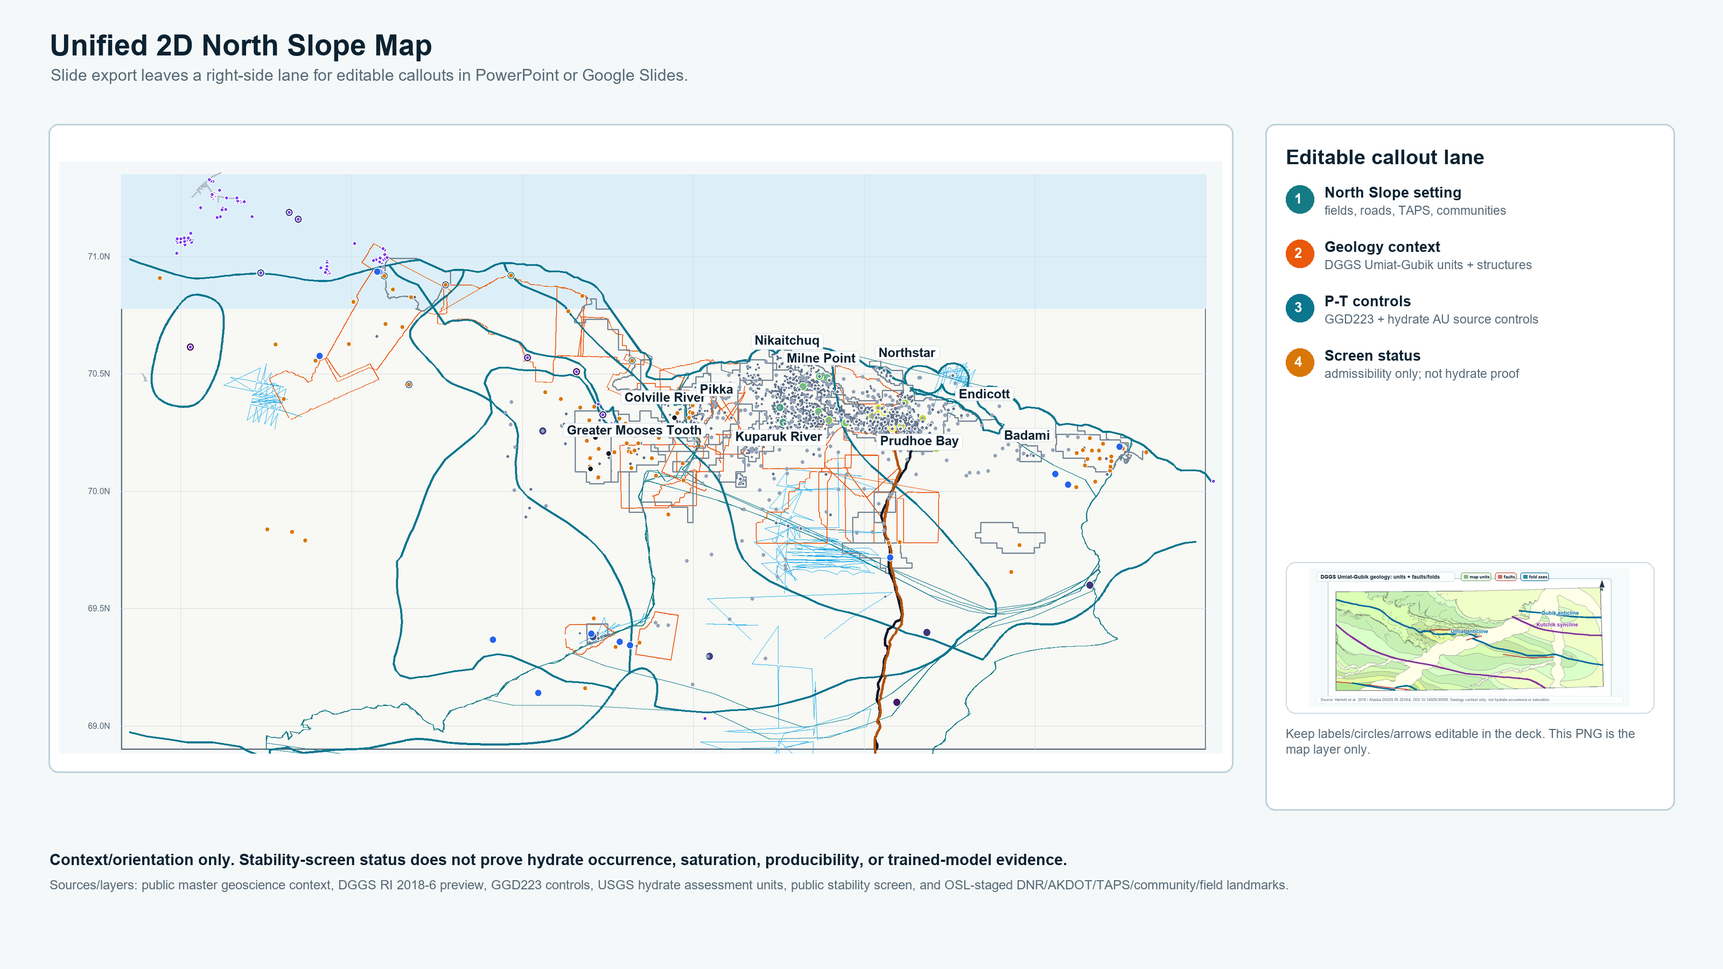
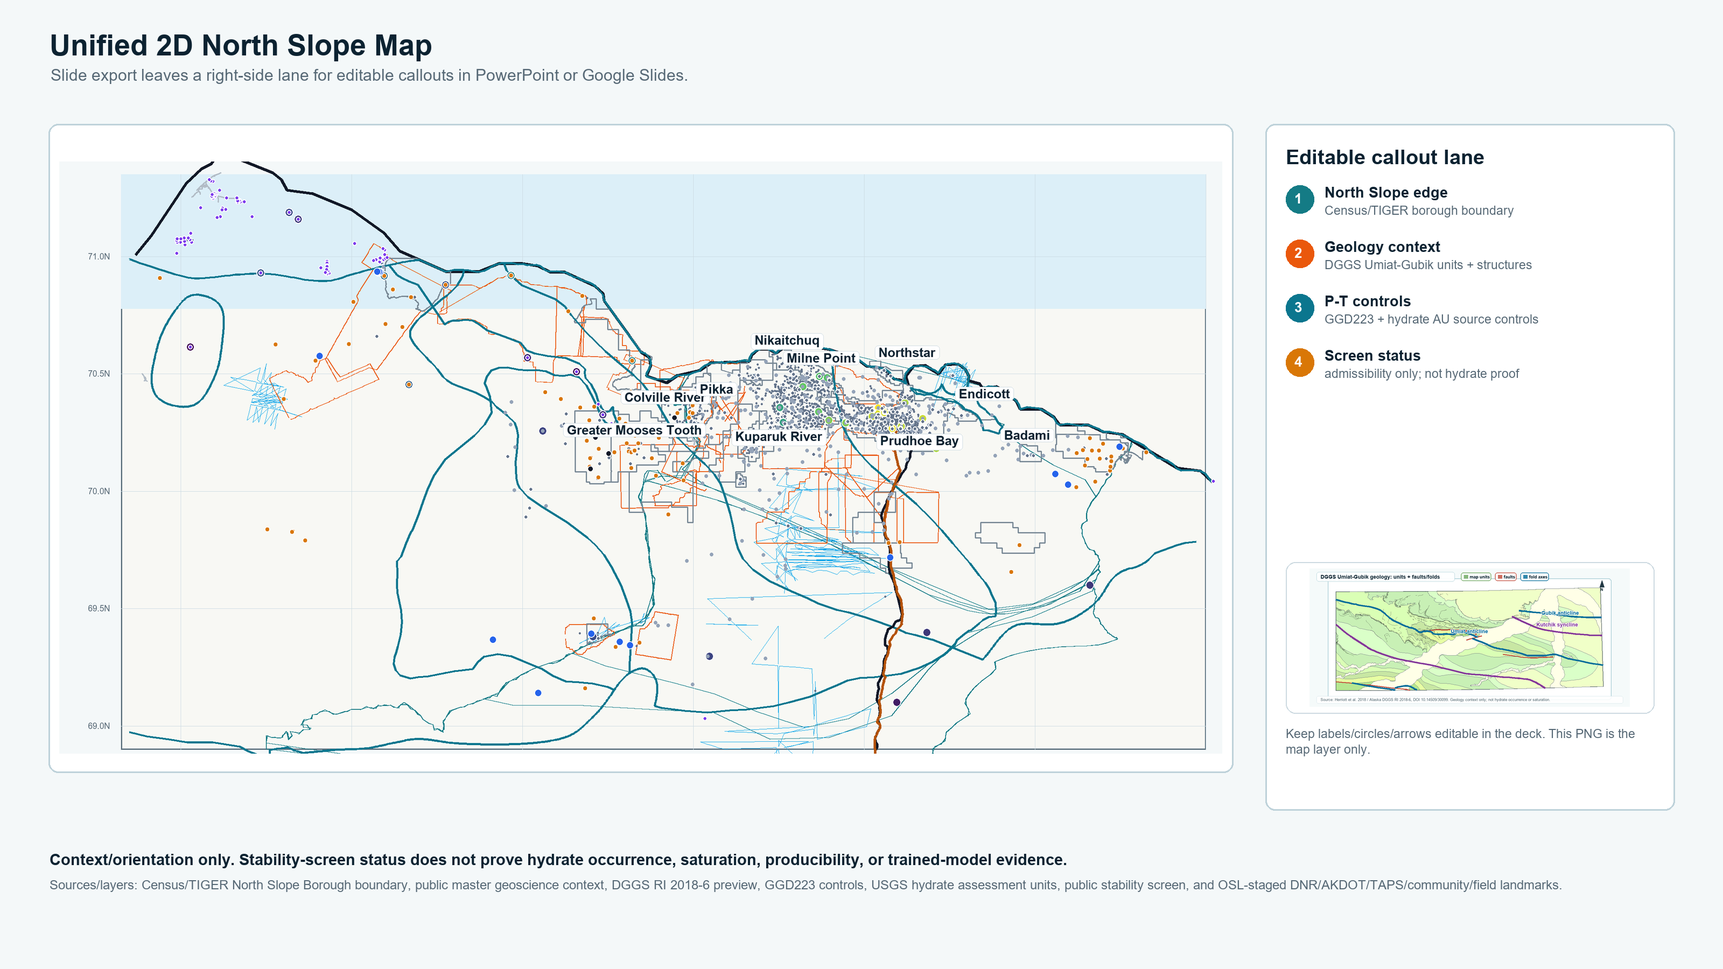
Add North Slope Borough boundary to unified map

Changed region(s): [[0.0938, 0.9022, 0.9062, 0.9333], [0.8125, 0.1867, 0.875, 0.2178]]

diff --git a/docs/project_blueprints/build_unified_north_slope_context_map.py b/docs/project_blueprints/build_unified_north_slope_context_map.py
@@ -19,6 +19,7 @@ ASSET_DIR = (
 PNG_PATH = ASSET_DIR / "unified_north_slope_well_stability_context_map_2026_06_18.png"
 SLIDE_PNG_PATH = ASSET_DIR / "unified_north_slope_slide_export_callout_space_2026_06_18.png"
 PUBLIC_STABILITY = ROOT / "data" / "public_stability_products"
+PUBLIC_GIS_PRODUCTS = ROOT / "data" / "public_gis_products"
 PUBLIC_SNAPSHOT = (
     ROOT
     / "data"
@@ -30,6 +31,7 @@ LANDMARK_DIR = ROOT / "data" / "source_library" / "basemap_landmarks_2026_06_18"
 SCREEN_CSV = PUBLIC_STABILITY / "stability_screen_2026-06-14_methane_5ppt_v1.csv"
 GGD223_CSV = PUBLIC_SNAPSHOT / "ggd223_permafrost_controls.csv"
 AU_GEOJSON = PUBLIC_SNAPSHOT / "GasHydrateAUs.geojson"
+BOROUGH_BOUNDARY_GEOJSON = PUBLIC_GIS_PRODUCTS / "north_slope_borough_boundary_tiger2025.geojson"
 MASTER_2D = ROOT / "03_data_final" / "master_layers" / "north_slope_master_2d_layers.parquet"
 DGGS_PREVIEW = (
     ROOT
@@ -392,12 +394,13 @@ def draw_side_panel(base: Image.Image) -> None:
     draw_text(draw, (x1 + 34, y1 + 34), "Integrated source layers", 38, NAVY, True, width=x2 - x1 - 68)
     y = y1 + 92
     layers = [
+        ("Regional Boundary", "Census/TIGER North Slope Borough edge"),
         ("Geoscience Orientation", "study boundary, public wells, 2D/3D seismic"),
         ("DGGS RI 2018-6", "Umiat-Gubik units, contacts/faults, folds"),
         ("Stability controls", "GGD223 pf_depth_m + USGS hydrate AUs"),
         ("OSL landmarks", "DNR units, AKDOT roads, TAPS, communities"),
     ]
-    colors = [ASSESSMENT_CONTEXT, SEISMIC_3D, TEAL, PIPE]
+    colors = [BLACK, ASSESSMENT_CONTEXT, SEISMIC_3D, TEAL, PIPE]
     for (header, body), color in zip(layers, colors):
         draw.rounded_rectangle((x1 + 34, y, x1 + 64, y + 30), radius=6, fill=color + (255,))
         draw_text(draw, (x1 + 82, y - 2), header, 26, NAVY, True, width=x2 - x1 - 120)
@@ -444,6 +447,7 @@ def field_label_frame(screen: pd.DataFrame) -> pd.DataFrame:
 def draw_legend(draw: ImageDraw.ImageDraw, ggd_min: int, ggd_max: int) -> None:
     x, y = 160, 210
     line_items = [
+        ("North Slope Borough boundary", BLACK, 6),
         ("Public assessment context", ASSESSMENT_CONTEXT, 4),
         ("2D seismic coverage", SEISMIC, 3),
         ("3D seismic footprints", SEISMIC_3D, 3),
@@ -515,6 +519,7 @@ def draw_map() -> Path:
     local_roads = [feature for feature in roads_all if feature not in key_roads]
     taps = load_geojson(LANDMARK_DIR / "alaska_dnr_trans_alaska_pipeline.geojson")
     aus = load_geojson(AU_GEOJSON)
+    borough_boundary = load_geojson(BOROUGH_BOUNDARY_GEOJSON)
     gnis = load_geojson(LANDMARK_DIR / "usgs_gnis_places_north_slope_clip.geojson")
     master_context = load_master_2d_context()
 
@@ -538,6 +543,7 @@ def draw_map() -> Path:
     draw_frame_lines(draw, master_context, "seismic_2d", SEISMIC, 1, 260, 130)
     draw_frame_lines(draw, master_context, "seismic_3d_inventory", SEISMIC_3D, 2, 120, 180)
     draw_frame_lines(draw, master_context, "extent", BLACK, 4, 8, 20)
+    draw_geojson_lines(draw, borough_boundary, BLACK, 7, max_points=2600)
     draw_public_well_reference_points(draw, master_context)
 
     draw_geojson_lines(draw, dnr_units, GRAY, 3, max_points=800)
@@ -598,7 +604,7 @@ def draw_map() -> Path:
     draw_text(
         draw,
         (132, 122),
-        "Geoscience orientation, DGGS Umiat-Gubik preview, GGD223 controls, USGS hydrate AUs, screen status, DNR units, roads, TAPS, and field labels.",
+        "Census/TIGER North Slope Borough boundary, geoscience orientation, DGGS Umiat-Gubik preview, GGD223 controls, USGS hydrate AUs, screen status, DNR units, roads, TAPS, and field labels.",
         29,
         MUTED,
     )
@@ -616,7 +622,7 @@ def draw_map() -> Path:
     draw_text(
         draw,
         (130, 1975),
-        "GitHub-safe layers: public master geoscience context, committed stability screen, USGS AU snapshot, GGD223 public snapshot, DGGS preview PNG, and this derived PNG. OSL/Drive-only raw layers: full DNR/AKDOT/TAPS/Census/GNIS/DGGS packages and any approved well-log/core/runtime data.",
+        "GitHub-safe layers: Census/TIGER North Slope Borough boundary, public master geoscience context, committed stability screen, USGS AU snapshot, GGD223 public snapshot, DGGS preview PNG, and this derived PNG. OSL/Drive-only raw layers: full DNR/AKDOT/TAPS/Census/GNIS/DGGS packages and any approved well-log/core/runtime data.",
         24,
         MUTED,
         width=3450,
@@ -650,7 +656,7 @@ def draw_slide_callout_export(full_map: Image.Image) -> Path:
     draw_text(draw, (2388, 270), "Editable callout lane", 38, NAVY, True, width=650)
     y = 344
     callouts = [
-        ("1", "North Slope setting", "fields, roads, TAPS, communities"),
+        ("1", "North Slope edge", "Census/TIGER borough boundary"),
         ("2", "Geology context", "DGGS Umiat-Gubik units + structures"),
         ("3", "P-T controls", "GGD223 + hydrate AU source controls"),
         ("4", "Screen status", "admissibility only; not hydrate proof"),
@@ -683,7 +689,7 @@ def draw_slide_callout_export(full_map: Image.Image) -> Path:
     draw_text(
         draw,
         (92, 1630),
-        "Sources/layers: public master geoscience context, DGGS RI 2018-6 preview, GGD223 controls, USGS hydrate assessment units, public stability screen, and OSL-staged DNR/AKDOT/TAPS/community/field landmarks.",
+        "Sources/layers: Census/TIGER North Slope Borough boundary, public master geoscience context, DGGS RI 2018-6 preview, GGD223 controls, USGS hydrate assessment units, public stability screen, and OSL-staged DNR/AKDOT/TAPS/community/field landmarks.",
         24,
         MUTED,
         width=3000,

diff --git a/dashboard/app.py b/dashboard/app.py
@@ -173,6 +173,10 @@ UNIFIED_CONTEXT_MAP_SLIDE_EXPORT = (
     WEBSITE_WELL_MAP_ASSET_DIR
     / "unified_north_slope_slide_export_callout_space_2026_06_18.png"
 )
+PUBLIC_GIS_PRODUCTS_DIR = PROJECT_ROOT / "data" / "public_gis_products"
+NORTH_SLOPE_BOROUGH_BOUNDARY = (
+    PUBLIC_GIS_PRODUCTS_DIR / "north_slope_borough_boundary_tiger2025.geojson"
+)
 SLIDE02_SOURCE_BUNDLE_DIR = PROJECT_ROOT / "docs" / "evidence" / "slide02_source_bundle_2026_06_17"
 DGGS_UMIAT_GUBIK_GEOLOGY_PREVIEW = (
     SLIDE02_SOURCE_BUNDLE_DIR / "slide02_selected_11_dggs_umiat_gubik_geology_layer_slide_map.png"
@@ -2080,9 +2084,10 @@ def render_regional_atlas() -> None:
     st.title("Unified 2D North Slope Map For Slides 2 And 7")
     st.write(
         "One public-safe map section combines the Geoscience Orientation layers, "
-        "DGGS Umiat-Gubik geology preview, GGD223 permafrost controls, USGS gas "
-        "hydrate assessment units, stability-screen status points, and OSL "
-        "desktop GIS landmarks for North Slope orientation."
+        "the Census/TIGER North Slope Borough boundary, DGGS Umiat-Gubik geology "
+        "preview, GGD223 permafrost controls, USGS gas hydrate assessment units, "
+        "stability-screen status points, and OSL desktop GIS landmarks for North "
+        "Slope orientation."
     )
     cols = st.columns(3)
     screen = cached_stability_screen(str(PROJECT_ROOT))
@@ -2704,6 +2709,7 @@ def load_basemap_landmark_layers(source_dir: Path) -> dict[str, object]:
     local_roads = [feature for feature in roads if feature not in key_roads]
     return {
         "source_dir": str(source_dir),
+        "borough_boundary": load_geojson_features(NORTH_SLOPE_BOROUGH_BOUNDARY),
         "units": load_geojson_features(source_dir / BASEMAP_LANDMARK_FILES["units"]),
         "local_roads": local_roads,
         "key_roads": key_roads,
@@ -2758,6 +2764,16 @@ def add_north_slope_basemap_line_layers(
     landmarks: dict[str, object],
     showlegend: bool = False,
 ) -> None:
+    add_geojson_line_trace(
+        figure,
+        landmarks.get("borough_boundary", []),
+        "North Slope Borough boundary",
+        "#0f172a",
+        3.2,
+        0.88,
+        max_points_per_path=2200,
+        showlegend=showlegend,
+    )
     add_geojson_line_trace(
         figure,
         landmarks.get("units", []),
@@ -3025,6 +3041,14 @@ def unified_context_map_layer_inventory_frame(
     dggs_status = "available as public-safe preview" if dggs_path.exists() else "missing preview"
     rows = [
         {
+            "layer_group": "Regional Boundary",
+            "layer": "North Slope Borough boundary",
+            "source": project_relative_or_absolute(NORTH_SLOPE_BOROUGH_BOUNDARY),
+            "shown_as": "bold map outline",
+            "slide_use": "Slide 2 and Slide 7 geographic edge/context",
+            "guardrail": "administrative/geographic context only; not hydrate evidence",
+        },
+        {
             "layer_group": "Geoscience Orientation",
             "layer": "study boundary, public wells, 2D seismic, 3D seismic, public assessment-unit context",
             "source": "03_data_final/master_layers/north_slope_master_2d_layers.parquet",
@@ -3071,11 +3095,12 @@ def unified_context_map_layer_inventory_frame(
 def unified_context_map_source_caveat_caption(landmark_source_dir: Path) -> str:
     return (
         "Unified public-safe map section: Geoscience Orientation master layers, "
-        "DGGS RI 2018-6 Umiat-Gubik public geology preview, GGD223 controls, "
-        "USGS gas hydrate assessment units, stability-screen status points, "
-        "and OSL-staged DNR/AKDOT/TAPS/community/field landmarks. Context and "
-        "stability-admissibility only; these layers do not prove hydrate "
-        "occurrence, saturation, producibility, or trained-model results. "
+        "Census/TIGER North Slope Borough boundary, DGGS RI 2018-6 Umiat-Gubik "
+        "public geology preview, GGD223 controls, USGS gas hydrate assessment "
+        "units, stability-screen status points, and OSL-staged "
+        "DNR/AKDOT/TAPS/community/field landmarks. Context and stability-"
+        "admissibility only; these layers do not prove hydrate occurrence, "
+        "saturation, producibility, or trained-model results. "
         f"OSL landmark source: `{project_relative_or_absolute(landmark_source_dir)}`."
     )
 
@@ -6658,7 +6683,7 @@ def render_presentation_exports() -> None:
         (
             "Unified North Slope Map",
             UNIFIED_CONTEXT_MAP_EXPORT,
-            "Large unified public geoscience, DGGS-preview, stability-status, GGD223, USGS AU, DNR unit, road, TAPS, and field-label context map",
+            "Large unified public Census/TIGER borough boundary, geoscience, DGGS-preview, stability-status, GGD223, USGS AU, DNR unit, road, TAPS, and field-label context map",
             "unified_north_slope_map",
         ),
         (

diff --git a/01_pipeline/build_public_north_slope_borough_boundary.py b/01_pipeline/build_public_north_slope_borough_boundary.py
@@ -1,0 +1,61 @@
+from __future__ import annotations
+
+from pathlib import Path
+import tempfile
+import urllib.request
+
+import geopandas as gpd
+
+
+PROJECT_ROOT = Path(__file__).resolve().parents[1]
+OUTPUT_DIR = PROJECT_ROOT / "data" / "public_gis_products"
+OUTPUT_GEOJSON = OUTPUT_DIR / "north_slope_borough_boundary_tiger2025.geojson"
+
+TIGER_2025_COUNTY_URL = (
+    "https://www2.census.gov/geo/tiger/TIGER2025/COUNTY/tl_2025_us_county.zip"
+)
+
+
+def build_boundary(output_path: Path = OUTPUT_GEOJSON) -> Path:
+    output_path.parent.mkdir(parents=True, exist_ok=True)
+    with tempfile.TemporaryDirectory(prefix="north_slope_tiger_county_") as tmp_dir:
+        zip_path = Path(tmp_dir) / "tl_2025_us_county.zip"
+        urllib.request.urlretrieve(TIGER_2025_COUNTY_URL, zip_path)
+        counties = gpd.read_file(f"zip://{zip_path.resolve()}")
+
+    boundary = counties[
+        counties["STATEFP"].astype(str).eq("02")
+        & counties["NAME"].astype(str).str.casefold().eq("north slope")
+    ].copy()
+    if boundary.empty:
+        raise RuntimeError("North Slope Borough boundary not found in TIGER county layer.")
+
+    if boundary.crs is not None and boundary.crs.to_epsg() != 4326:
+        boundary = boundary.to_crs("EPSG:4326")
+    boundary["geometry"] = boundary.geometry.simplify(0.01, preserve_topology=True)
+    boundary = boundary[
+        [
+            "STATEFP",
+            "COUNTYFP",
+            "GEOID",
+            "NAME",
+            "NAMELSAD",
+            "LSAD",
+            "ALAND",
+            "AWATER",
+            "INTPTLAT",
+            "INTPTLON",
+            "geometry",
+        ]
+    ].copy()
+    boundary["source_url"] = TIGER_2025_COUNTY_URL
+    boundary["source_note"] = (
+        "U.S. Census Bureau TIGER/Line 2025 county boundary; filtered to "
+        "North Slope Borough, Alaska, and simplified for public website maps."
+    )
+    boundary.to_file(output_path, driver="GeoJSON")
+    return output_path
+
+
+if __name__ == "__main__":
+    print(build_boundary())

diff --git a/tests/test_stability_screen_diagnostics.py b/tests/test_stability_screen_diagnostics.py
@@ -327,6 +327,7 @@ def test_unified_context_map_combines_status_source_and_landmark_layers(
     )
 
     trace_names = {trace.name for trace in figure.data}
+    assert "North Slope Borough boundary" in trace_names
     assert "Public assessment-unit context" in trace_names
     assert "2D seismic coverage" in trace_names
     assert "3D seismic footprints" in trace_names
@@ -350,6 +351,7 @@ def test_unified_context_map_combines_status_source_and_landmark_layers(
     assert pf_trace.marker.colorbar.title.text == "pf_depth_m"
 
     inventory = unified_context_map_layer_inventory_frame(Path("missing_dggs_preview.png"))
+    assert "Regional Boundary" in set(inventory["layer_group"])
     assert "DGGS RI 2018-6" in set(inventory["layer_group"])
     assert "Geoscience Orientation" in set(inventory["layer_group"])
     assert "missing preview" in set(inventory["shown_as"])

diff --git a/docs/CURRENT_ARTIFACT_INDEX.md b/docs/CURRENT_ARTIFACT_INDEX.md
@@ -18,7 +18,7 @@ are limited to `active`, `superseded`, `reference`, and `needs review`.
 | V5.5 Slide 2 source update deck | `docs/project_blueprints/V5_5_SLIDE2_SOURCE_UPDATE_North_Slope_Gas_Hydrate_ML_Workflow_Slides_2026-06-17.pptx` | Active nine-slide mentor deck update | active | Prefer builder edits | Built from the current V5.5 deck; only Slide 2 was rebuilt with selected USGS/DOE source-backed stability visuals, the DGGS RI 2018-6 Umiat-Gubik geology-layer preview, methane/Structure I baseline language, and the stability-not-proof guardrail. |
 | V5.5 Slide 2 source update companion | `docs/project_blueprints/V5_5_SLIDE2_SOURCE_UPDATE_North_Slope_Gas_Hydrate_ML_Workflow_Companion_2026-06-17.docx` | Active mentor-facing Word companion for V5.5 | active | Prefer builder edits | Explains the rebuilt Slide 2 visual choices, source links, hydrate structure types, methane baseline, DOE prototype guardrails, stability-as-context overlay, and visual provenance. |
 | V5.5 Slide 2 source update generated assets | `docs/project_blueprints/presentation_assets/v5_5_slide2_source_update_2026_06_17/` | V5.5 slide PNG panels and contact sheet | active | Rebuild from builder | Contact sheet visually inspected; Slide 2 uses the source-backed stability graph and DGGS geology preview, slide 5 is the DOE prototype/model-run card, slide 8 is the stability-to-ML overlay, and slide 9 is the done/not-claimed/next close. |
-| Unified 2D North Slope map exports | `docs/project_blueprints/presentation_assets/website_well_maps_2026_06_18/` | Website and slide-callout map source for Slides 2 and 7 | active | Rebuild from `docs/project_blueprints/build_unified_north_slope_context_map.py` | Current exports are `unified_north_slope_well_stability_context_map_2026_06_18.png` and `unified_north_slope_slide_export_callout_space_2026_06_18.png`; they combine Geoscience Orientation layers, DGGS RI 2018-6 preview, GGD223 controls, USGS hydrate AUs, public stability-screen status, and OSL landmark layers as context/admissibility only, not hydrate proof. |
+| Unified 2D North Slope map exports | `docs/project_blueprints/presentation_assets/website_well_maps_2026_06_18/` | Website and slide-callout map source for Slides 2 and 7 | active | Rebuild from `docs/project_blueprints/build_unified_north_slope_context_map.py` | Current exports are `unified_north_slope_well_stability_context_map_2026_06_18.png` and `unified_north_slope_slide_export_callout_space_2026_06_18.png`; they combine the Census/TIGER North Slope Borough boundary, Geoscience Orientation layers, DGGS RI 2018-6 preview, GGD223 controls, USGS hydrate AUs, public stability-screen status, and OSL landmark layers as context/admissibility only, not hydrate proof. |
 | V5.5 Slide 2 source update Drive deck | <https://docs.google.com/presentation/d/1-35vfTIXAnWCiyKTLooJy80HBYliMBliE_z4CbggJC0> | Native Google Slides review copy of the active V5.5 Slide 2 source update deck | active | Connector/Drive edits only with explicit direction | Connector readback verified native Slides MIME type, nine-slide spine, and Slide 2 thumbnail on 2026-06-17. |
 | V5.5 Slide 2 source update Drive companion | <https://docs.google.com/document/d/1CyZkRgfAUSOOaRxXni0mcmFN2OQcc5pNOw8TOv44f0Q> | Native Google Docs review copy of the active V5.5 companion | active | Connector/Drive edits only with explicit direction | Connector readback verified native Docs MIME type, headings, rebuilt Slide 2 section, structure-type explanation, source links, and stability-not-proof guardrail on 2026-06-17. |
 | Latest self-email deck attachment | Gmail thread `19edc9d8ce7f95f1`, message `19edd022306af325`; attachment `V5.5 Slide 3 Signal Response QC-Cleaned North Slope Gas Hydrate ML Workflow Slides 2026-06-17 (1).pptx` | User says this is the best review deck so far and it contains the newest project/deck feedback | needs review | No direct Git edit until downloaded and verified | Email sent 2026-06-18 18:12 CDT. Attachment is not committed; use `docs/PROJECT_REVISION_DELEGATION_BASE_2026-06-18.md` for the extracted direction, including the editable-slide and four-well ML-scope updates. |

diff --git a/docs/project_blueprints/presentation_assets/website_well_maps_2026_06_18/README.md b/docs/project_blueprints/presentation_assets/website_well_maps_2026_06_18/README.md
@@ -12,8 +12,8 @@ Slide 2 and Slide 7 orientation/context.
 
 | Image | Current use | Visual QA |
 | --- | --- | --- |
-| `unified_north_slope_well_stability_context_map_2026_06_18.png` | Main readable export for the unified website map | Supersedes the prior status-only slide map by combining Geoscience Orientation layers, DGGS RI 2018-6 Umiat-Gubik geology preview, GGD223 `pf_depth_m` controls with colorbar, USGS hydrate AU outlines, stability-screen status points, DNR oil/gas unit outlines, AKDOT roads, Dalton/Deadhorse roads, TAPS, communities, and public field labels. |
-| `unified_north_slope_slide_export_callout_space_2026_06_18.png` | Slide 2 / Slide 7 map layer with editable-callout room | Same public-safe context stack as the full unified map, cropped into a 16:9 slide plate with a right-side callout lane so labels, circles, and arrows can remain editable in PowerPoint or Google Slides. |
+| `unified_north_slope_well_stability_context_map_2026_06_18.png` | Main readable export for the unified website map | Supersedes the prior status-only slide map by combining the Census/TIGER North Slope Borough boundary, Geoscience Orientation layers, DGGS RI 2018-6 Umiat-Gubik geology preview, GGD223 `pf_depth_m` controls with colorbar, USGS hydrate AU outlines, stability-screen status points, DNR oil/gas unit outlines, AKDOT roads, Dalton/Deadhorse roads, TAPS, communities, and public field labels. |
+| `unified_north_slope_slide_export_callout_space_2026_06_18.png` | Slide 2 / Slide 7 map layer with editable-callout room | Same public-safe context stack as the full unified map, including the Census/TIGER borough edge, cropped into a 16:9 slide plate with a right-side callout lane so labels, circles, and arrows can remain editable in PowerPoint or Google Slides. |
 | `slide3_correct_2d_well_stability_map_2026_06_18.png` | Correct slide-3/website-map export for the updated 2D well/stability context | Uses the updated map layers: Alaska DNR oil/gas unit outlines, AKDOT roads with Dalton/Deadhorse roads highlighted, Trans-Alaska Pipeline geometry, Census/GNIS community label context, public well field labels, and a caveat that these overlays are context rather than hydrate evidence. |
 | `website_2d_well_map_stability_status_2026_06_18.png` | Guarded methane 5 ppt stability-screen status map | Shows well distribution and screen categories, but the base layer does not make Prudhoe Bay, Kuparuk River, Milne Point, Deadhorse, or the Dalton/TAPS corridor obvious enough for a mentor audience. Use as a placeholder only until landmark overlays are added. |
 | `website_2d_well_map_temperature_coverage_2026_06_18.png` | Temperature-profile/proxy coverage diagnostic map | Good for explaining source coverage and blank-row reasons. It should not be used as the main hydrate science map because it is a data-readiness view, not an occurrence/saturation view. |
@@ -126,6 +126,9 @@ GitHub-safe committed or derived layers used in the unified map:
   for USGS hydrate assessment-unit outlines.
 - `data/public_stability_snapshot/north_slope_stability_snapshot_2026-06-13/ggd223_permafrost_controls.csv`
   for GGD223 `pf_depth_m` controls.
+- `data/public_gis_products/north_slope_borough_boundary_tiger2025.geojson`
+  for the public Census/TIGER North Slope Borough boundary used as the map's
+  real geographic edge.
 - `03_data_final/master_layers/north_slope_master_2d_layers.parquet` for the
   public-safe Geoscience Orientation master context used by the website and
   static export builder.

diff --git a/docs/VISUAL_EXPORT_MANIFEST_2026-06-18.md b/docs/VISUAL_EXPORT_MANIFEST_2026-06-18.md
@@ -8,10 +8,11 @@ Boundary: exported visuals are row-free summaries, diagrams, or public-safe tabl
 
 - `docs/project_blueprints/presentation_assets/website_well_maps_2026_06_18/unified_north_slope_well_stability_context_map_2026_06_18.png`
   is the full website/static export for the unified 2D North Slope map section.
-  It combines public Geoscience Orientation layers, DGGS RI 2018-6
-  Umiat-Gubik geology preview, GGD223 controls, USGS hydrate assessment units,
-  public stability-screen status points, and OSL-staged DNR/AKDOT/TAPS,
-  community, and field-label context.
+  It combines the public Census/TIGER North Slope Borough boundary, public
+  Geoscience Orientation layers, DGGS RI 2018-6 Umiat-Gubik geology preview,
+  GGD223 controls, USGS hydrate assessment units, public stability-screen
+  status points, and OSL-staged DNR/AKDOT/TAPS, community, and field-label
+  context.
 - `docs/project_blueprints/presentation_assets/website_well_maps_2026_06_18/unified_north_slope_slide_export_callout_space_2026_06_18.png`
   is the matching 16:9 slide-export map layer with a right-side callout lane
   for editable Slide 2 and Slide 7 annotations.

diff --git a/data/public_gis_products/README.md b/data/public_gis_products/README.md
@@ -1,0 +1,23 @@
+# Public GIS Products
+
+This folder contains small, public-safe derived GIS layers used by the website
+and slide exports. Raw source packages stay in OSL/source-library storage or
+temporary build folders unless they are explicitly approved for GitHub.
+
+## North Slope Borough Boundary
+
+File:
+`north_slope_borough_boundary_tiger2025.geojson`
+
+Source:
+U.S. Census Bureau TIGER/Line 2025 county shapefile,
+`https://www2.census.gov/geo/tiger/TIGER2025/COUNTY/tl_2025_us_county.zip`.
+
+Build script:
+`01_pipeline/build_public_north_slope_borough_boundary.py`.
+
+Use:
+The unified North Slope website/slide map uses this layer as a bold geographic
+edge for the North Slope Borough. It is administrative/geographic context only;
+it is not hydrate occurrence, saturation, producibility, stability, or model
+evidence.
